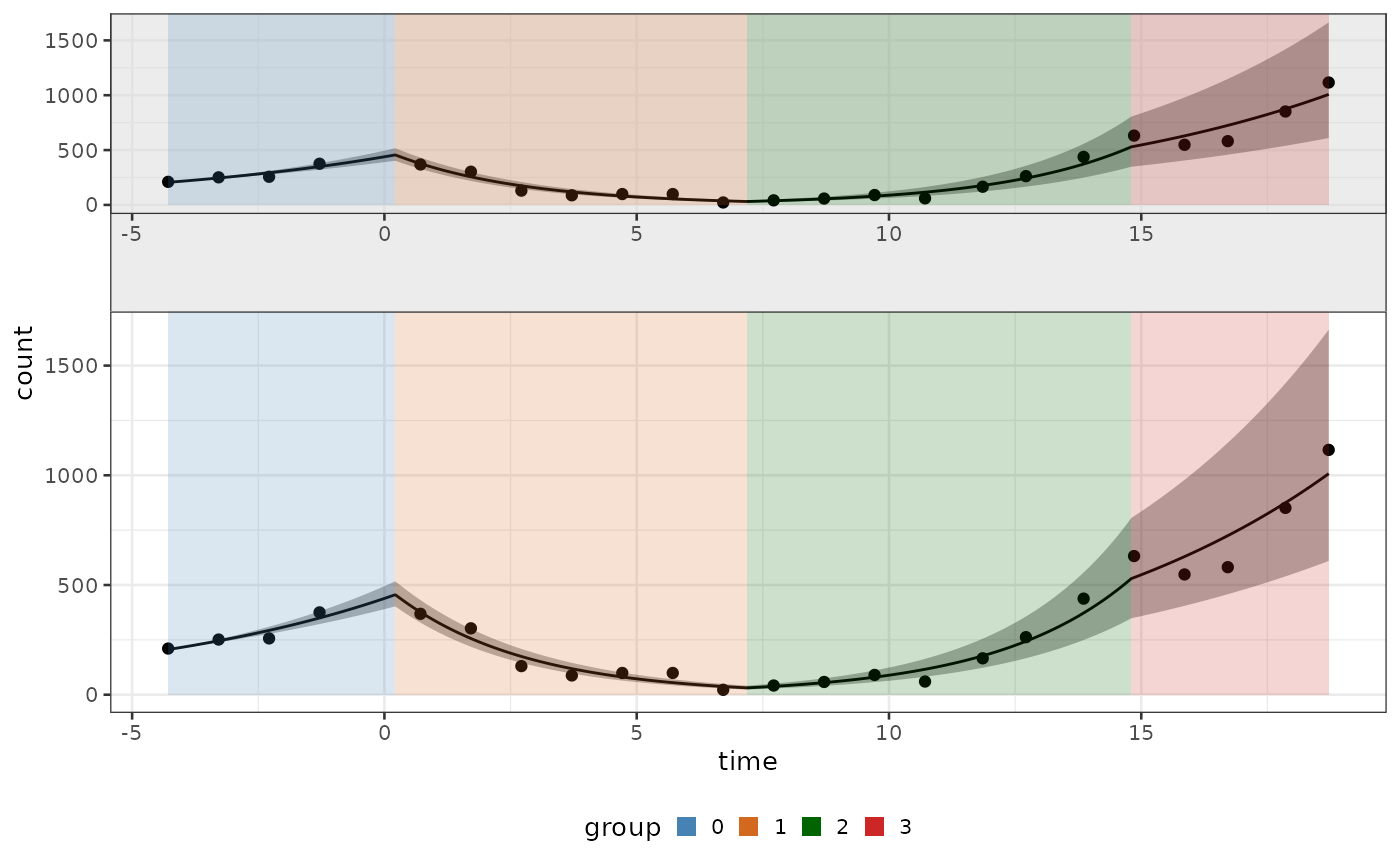
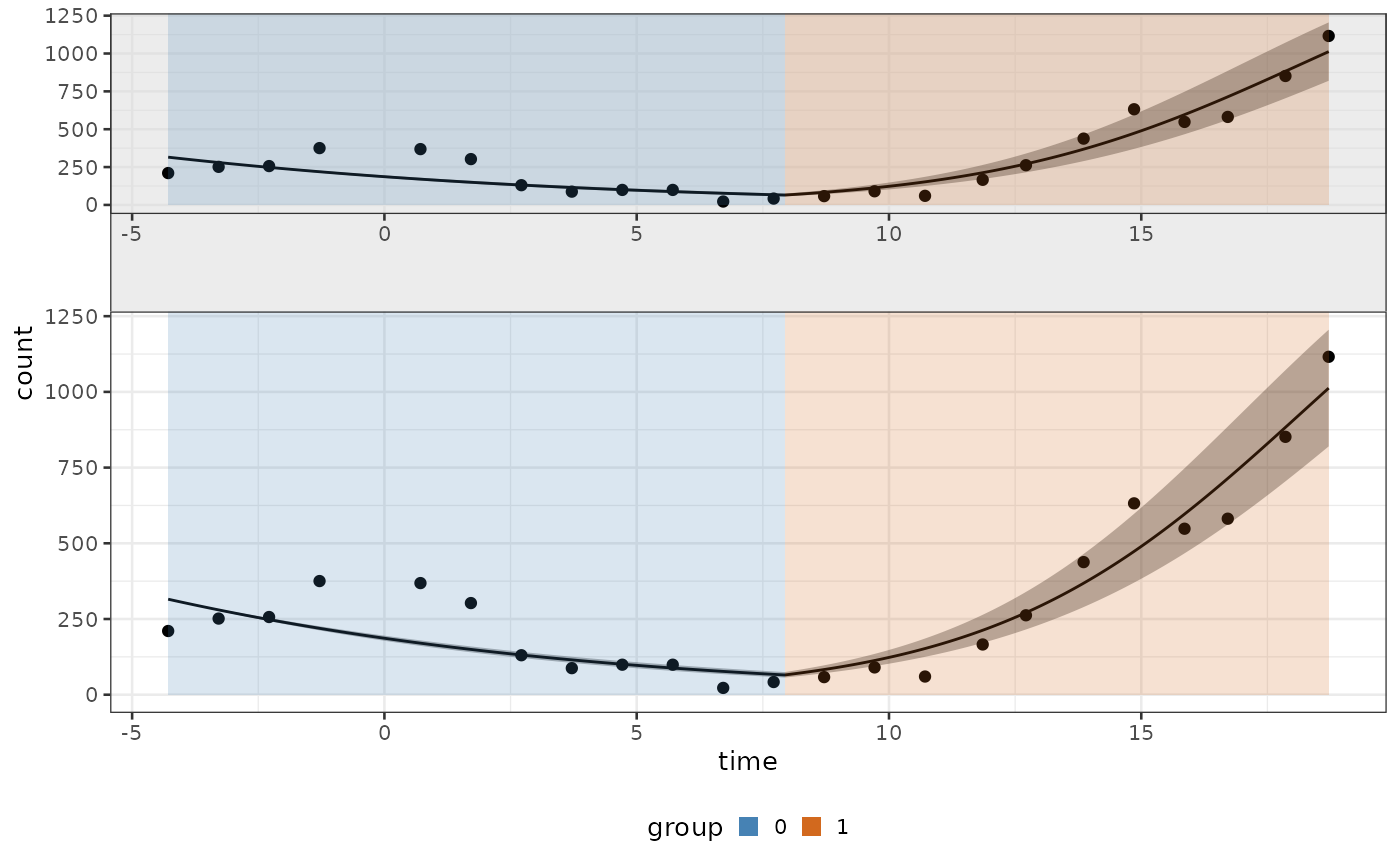
Deploying to gh-pages from @ caravagnalab/biPOD@3f556376880c62e55dd5c2a7e288387b7e619fd6 🚀

diff --git a/articles/a3_task2.html b/articles/a3_task2.html
@@ -125,21 +125,14 @@ pass a vector to the <code>available_changepoints</code></p>
 <div class="sourceCode" id="cb4"><pre class="downlit sourceCode r">
 <code class="sourceCode R"><span><span class="va">x</span> <span class="op">&lt;-</span> <span class="fu">biPOD</span><span class="fu">::</span><span class="fu"><a href="../reference/fit_breakpoints.html">fit_breakpoints</a></span><span class="op">(</span><span class="va">x</span>, norm <span class="op">=</span> <span class="cn">F</span>, n_trials <span class="op">=</span> <span class="fl">200</span>, avg_points_per_window <span class="op">=</span> <span class="fl">4</span>, max_breakpoints <span class="op">=</span> <span class="fl">3</span><span class="op">)</span></span>
 <span><span class="co">#&gt; Initial proposals</span></span>
-<span><span class="co">#&gt; [1] 1</span></span>
-<span><span class="co">#&gt; [1] 2</span></span>
-<span><span class="co">#&gt; [1] 3</span></span>
 <span><span class="co">#&gt; Proposals' optimization</span></span>
-<span><span class="co">#&gt; [1] 0</span></span>
-<span><span class="co">#&gt; [1] 1</span></span>
-<span><span class="co">#&gt; [1] 2</span></span>
-<span><span class="co">#&gt; [1] 3</span></span>
 <span><span class="co">#&gt; <span style="color: #00BBBB;">ℹ</span> Median of the inferred breakpoints have been succesfully stored.</span></span></code></pre></div>
 <p>The inferred breakpoints are now stored in the
 <code>metadata$breakpoints</code> field.</p>
 <div class="sourceCode" id="cb5"><pre class="downlit sourceCode r">
 <code class="sourceCode R"><span><span class="fu"><a href="https://rdrr.io/r/base/print.html" class="external-link">print</a></span><span class="op">(</span><span class="va">x</span><span class="op">$</span><span class="va">metadata</span><span class="op">$</span><span class="va">breakpoints</span><span class="op">)</span></span>
-<span><span class="co">#&gt;       par1       par2       par3 </span></span>
-<span><span class="co">#&gt;  0.2156842  7.1854773 14.8025570</span></span></code></pre></div>
+<span><span class="co">#&gt;     par1 </span></span>
+<span><span class="co">#&gt; 7.933023</span></span></code></pre></div>
 </div>
 <div class="section level2">
 <h2 id="breakpoints">Breakpoints<a class="anchor" aria-label="anchor" href="#breakpoints"></a>
@@ -165,7 +158,7 @@ Let’s see how it works on one example.</p>
 <span><span class="op">)</span></span>
 <span><span class="co">#&gt; <span style="color: #00BBBB;">ℹ</span> Fitting with model selection.</span></span>
 <span><span class="co">#&gt; <span style="color: #00BBBB;">ℹ</span> Model selection finished!</span></span>
-<span><span class="co">#&gt; <span style="color: #00BBBB;">ℹ</span> Model with <span style="color: #0000BB;">"Exponential"</span> growth deemed better with <span style="color: #0000BB;">"Substantial"</span> evidence. (BF = <span style="color: #0000BB;">8.31033565709106</span>)</span></span></code></pre></div>
+<span><span class="co">#&gt; <span style="color: #00BBBB;">ℹ</span> Model with <span style="color: #0000BB;">"Logistic"</span> growth deemed better with <span style="color: #0000BB;">"Decisive"</span> evidence. (BF = <span style="color: #0000BB;">375023781.778561</span>)</span></span></code></pre></div>
 <p>And let’s look at the final result.</p>
 <div class="sourceCode" id="cb8"><pre class="downlit sourceCode r">
 <code class="sourceCode R"><span><span class="fu">biPOD</span><span class="fu">::</span><span class="fu"><a href="../reference/plot_fit.html">plot_fit</a></span><span class="op">(</span><span class="va">x</span><span class="op">)</span></span></code></pre></div>
@@ -175,7 +168,9 @@ Let’s see how it works on one example.</p>
 <span>  <span class="va">x</span>,</span>
 <span>  x_fit <span class="op">=</span> <span class="va">x</span><span class="op">$</span><span class="va">fit</span>,</span>
 <span>  par_list <span class="op">=</span> <span class="fu"><a href="https://rdrr.io/r/base/c.html" class="external-link">c</a></span><span class="op">(</span><span class="st">"rho[1]"</span>, <span class="st">"rho[2]"</span>, <span class="st">"rho[3]"</span>, <span class="st">"rho[4]"</span><span class="op">)</span></span>
-<span><span class="op">)</span></span></code></pre></div>
+<span><span class="op">)</span></span>
+<span><span class="co">#&gt; Warning: Removed 2 rows containing non-finite outside the scale range</span></span>
+<span><span class="co">#&gt; (`stat_density()`).</span></span></code></pre></div>
 <p><img src="a3_task2_files/figure-html/unnamed-chunk-7-2.png" width="700"></p>
 </div>
   </main><aside class="col-md-3"><nav id="toc" aria-label="Table of contents"><h2>On this page</h2>
